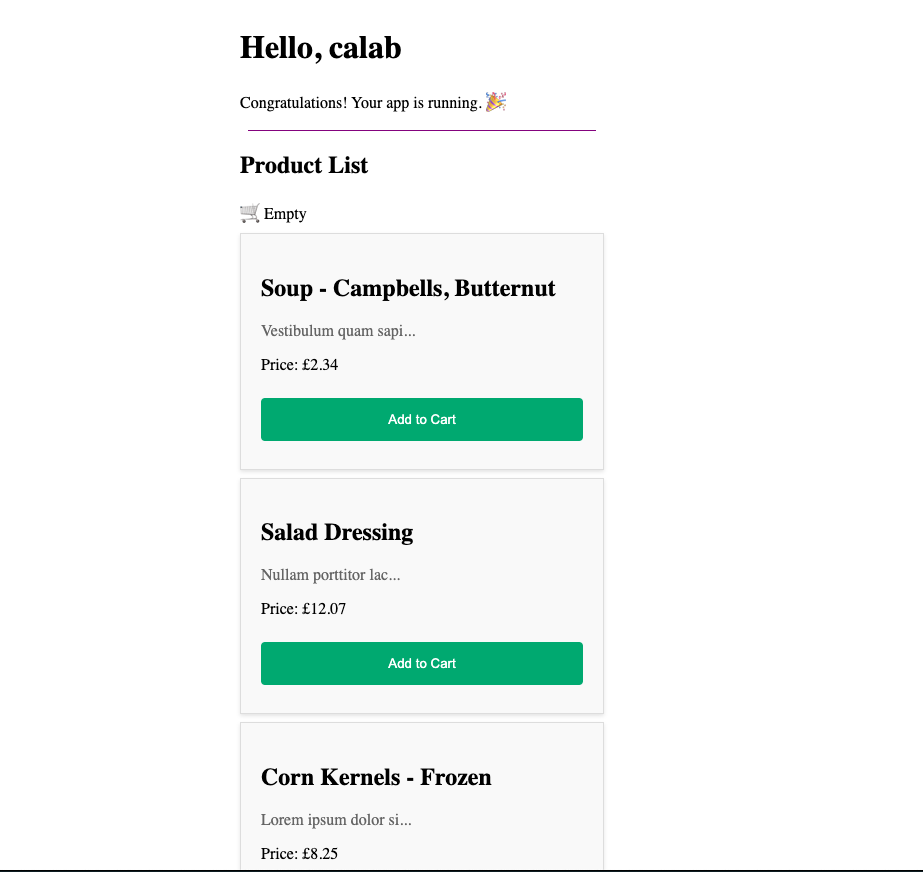
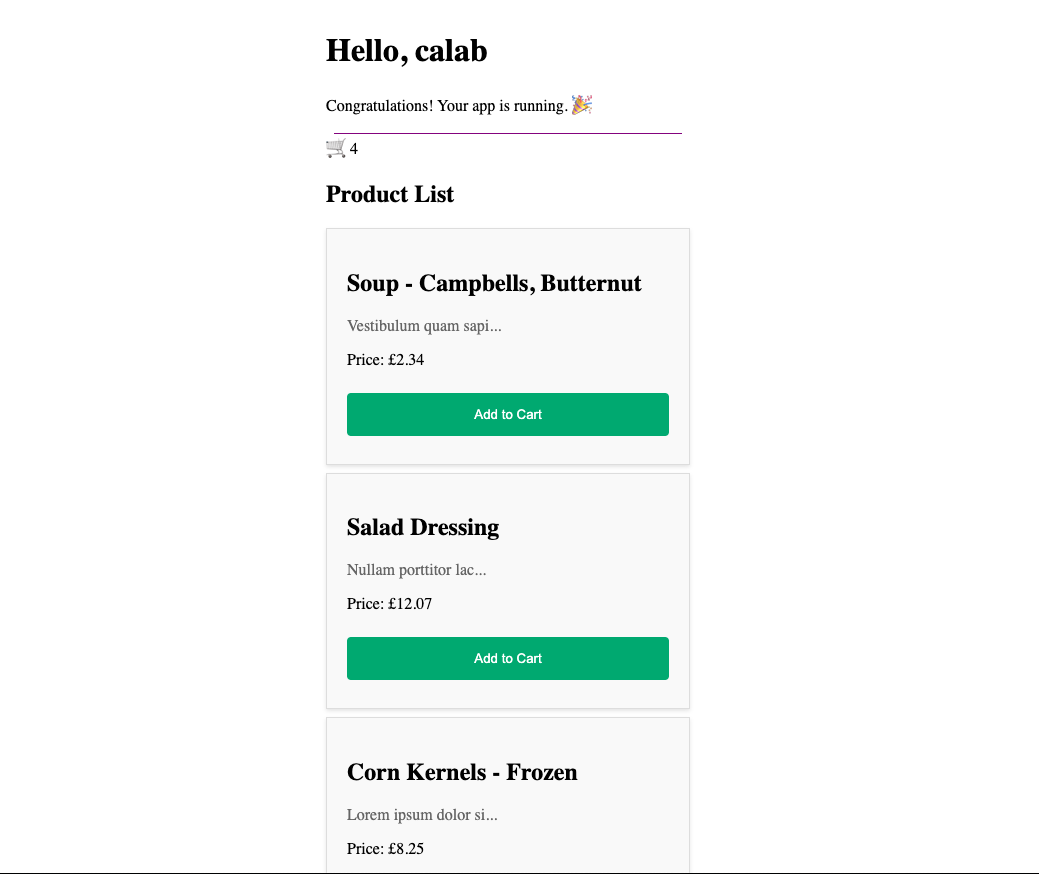
updated lab steps

diff --git a/07-angular-signals/README.md b/07-angular-signals/README.md
@@ -32,187 +32,121 @@
 
     > _You should see similar view to where you left off in previous lab._
 
-## 2. Create A Service
+## 2. Move Cart Separate Component
 
-### 2.1 Create A Service To Return List Of Products
+### 2.1 Create A Cart Component
 
-1. Create a new service called `ProductService` using CLI:
+- Create a new Component called `Cart` using CLI:
 
     ```.sh
-    npx -p @angular/cli ng generate service services/product
+    npx -p @angular/cli ng generate component components/cart
     ```
 
-2. Open `src/app/services/product.service.ts` file and add the following code:
+### 2.2 Implement Signal Inside Cart Component
 
-    ```.js
-    import { Injectable } from '@angular/core';
-    import  DATA from './MOCK_DATA.json';
+- Open `src/app/components/cart/cart.component.ts` file and do the following:
+    - Declate a writable signal and set its default value to empty list `[]`:
 
-    @Injectable({
-        providedIn: 'root'
-    })
-    export class ProductService {
-        constructor() { }
+        ```.js
+        currentCart = signal<Product[]>([]);
+        ```
 
-        getProducts(){
-            return DATA;
+    - Inside `constructor` of `CartComponent`, call an `effect` and log the Signal value:
+
+        ```.js
+        constructor(){
+            effect(() => {
+                console.log(`The current car contains: ${this.currentCart()}`);
+            });
         }
+        ```
+    - Inside `CartComponent`, just below constructor, declare `addToCart` function that takes `Product` as a parameter:
+
+        ```.js
+        public addToCart(product: Product){
+            this.currentCart.update(list => {
+                return [...list, product];
+            })
+        }
+        ```
+
+- Open `src/app/components/cart/cart.component.html` and replace current HTML code with the following:
+
+    ```.html
+    @if (currentCart().length > 0) {
+        🛒 {{currentCart().length}}
+    } @else {
+        🛒 Empty
     }
     ```
-    > _getProducts() method will return the mock Data imported from MOCK_DATA.json._
 
-## 3. Inject Service as Dependency Into Component
+### 2.3 Remove Cart From Product List Component
 
+- Open `src/app/components/product-list/product-list.component.ts` and do the following:
+    - Inside `ProductListComponent`, declare `EventEmitter` called `addToCartEvent` to emit add to cart events:
 
-### 3.1 Update Product Model with id.
-1. Open `src/app/models/product.ts` and update `Product` model with the follwoing:
+        ```.js
+        @Output() addToCartEvent = new EventEmitter<Product>();
+        ```
 
-    ```.js
-    export class Product {
-        constructor(
-            public id: number,
-            public name: string,
-            public description: string,
-            public price: number,
-        ) {}
+    - Delete the following line since it's no longer needed:
+
+        ```.js
+        cart: Product[] = [];
+        ```
+
+    - Update the `addToCart()` method to emit event instead of adding to previously declared list of Products:
+
+        ```.js
+        addToCart(product: Product) {
+            this.addToCartEvent.emit(product);
+        }
+        ```
+        
+- Open `src/app/components/product-list/product-list.component.html` and remove the folling code:
+
+    ```.html
+    @if (cart.length > 0) {
+        🛒 {{cart.length}}
+    } @else {
+        🛒 Empty
     }
     ```
 
-### 3.2 Inject Product Service to Product List Component
+### 2.3 Move Cart To App Component
 
-1. Open `src/app/components/product-list/product-list.component.ts` file and do the following:
-    - Import ProductService:
+- Open `src/app/app.component.ts` file and do the following:
+    - Inside `src/app/app.component.ts` update `imports` to include `CartComponent`:
 
         ```.js
-        import { ProductService } from '../../services/product.service';
+        imports: [RouterOutlet, ProductListComponent, CartComponent],
         ```
 
-    - Add the `ProductService` as a parameter into the  `constructor`.
+    -  Inside `AppConponent`, declare a reference to `CartComponent` using `viewChild` signal API.
 
         ```.js
-         constructor(private productService: ProductService) {}
+        cardComponent = viewChild(CartComponent);
         ```
-    - Replace static list of Products with a service call.
+    - Just below reference to `CartComponent`, declare a new function that would be called when add to Cart button is clicked in a Product. This function should trigger `addToCart` method in a `CartComponent`. 
 
         ```.js
-        products: Product[] = this.productService.getProducts();
-        ```
-
-### 3.3 Instpect Changes
-
-1. Start Angular Development Server if not yet started:
-
-    ```.bash
-    npx -p @angular/cli ng serve  --host 0.0.0.0 
-    ```
-    > _Otherwise refresh the browser tab to see updated view._
-
-2. You should see the following getting rendered in your browser:
-
-    [![result2](res/result2.png)]() 
-
-
-## 4. Injecting Services In Other Services 
-
-### 4.1 Create A New Logger And Implement It's Logic
-
-1. Create a new `Logger` using CLI:
-
-    ```.sh
-    npx -p @angular/cli ng generate service services/logger/logger 
-    ```
-2. Open `src/app/services/logger/logger.service.ts` file and do the following:
-    - Create logging methods just below the `constructor` :
-
-        ```.js
-        log(msg: unknown) { console.log(msg); }
-        error(msg: unknown) { console.error(msg); }
-        warn(msg: unknown) { console.warn(msg); }
-        ```
-
-### 4.2 Inject Logger Service Into Project Service And Log When Projects Are Fetched
-
-1. Open `src/app/services/product.service.ts` file and do the following:
-    - Import Logger service:
-
-        ```.js
-        import { LoggerService } from '../logger/logger.service';
-        ```
-
-    - Add the `LoggerService` as a parameter into the  `constructor`.
-
-        ```.js
-        constructor(private logger: LoggerService) { }
-        ```
-    - Inside `getProducts()` method log that courses are getting fetched.
-
-        ```.js
-        this.logger.log('Fetching Products');
-        ```
-### 4.3 Review Changes
-
-1. Start Angular Development Server if not yet started:
-
-    ```.bash
-    npx -p @angular/cli ng serve  --host 0.0.0.0 
-    ```
-    > _Otherwise refresh the browser tab to see updated view._
-
-2. Inspect console and see whether your application logs with Logger.
-    [![result3](res/result3.png)]() 
-
-## 5. Configuring Dependency Providers
-
-
-### 5.1 Creating Enhanced Logger
-
-1. Create a new `TimedLoggerService` using CLI:
-
-    ```.sh
-    npx -p @angular/cli ng generate service services/logger/timed-logger 
-    ```
-
-2. Open `src/app/services/logger/timed-logger.service.ts` file and do the following:
-    - Extend `LoggerService` with `TimedLoggerService`:
-
-        ```.js
-        export class TimeLoggerService extends LoggerService {...}
-        ```
-    - Override logging methods just below the `constructor`:
-
-        ```.js
-        constructor() {
-            super()
-        }
-        private getUtcDate(){
-            const timeElapsed = Date.now();
-            const today = new Date(timeElapsed);
-            const utcDate = today.toUTCString();
-            return utcDate;
-        }
-
-        override log(msg: unknown) { 
-            const date = this.getUtcDate();
-            console.log(`${date}: ${msg}`); 
-        }
-        override error(msg: unknown) { 
-            const date = this.getUtcDate();
-            console.error(`${date}: ${msg}`); 
-        }
-        override warn(msg: unknown) { 
-            const date = this.getUtcDate();
-            console.warn(`${date}: ${msg}`); 
+        addToCart(product: Product) {
+            this.cardComponent()?.addToCart(product);
         }
         ```
 
-### 5.2 Configure an app-wide provider in the ApplicationConfig of bootstrapApplication, it overrides one configured for root in the @Injectable() metadata.
+- Open `src/app/app.component.html` file and do the following:
+    - Add the following element after the `<div class="divider"...`, to render `CartComponent`.
+ 
+        ```.html
+        <app-cart></app-cart>
+        ```
 
-1. Open `app.config.ts` file and add the following:
-    - Update providers with the following:
+    - Update `app-product-list` element with target event and it's template statement.
 
-    ```.js
-      providers: [provideRouter(routes), provideClientHydration(), {provide: LoggerService, useClass: TimedLoggerService}]
-    ```
+        ```.html
+        <app-product-list (addToCartEvent)="addToCart($event)"></app-product-list>
+        ```
 
 ### 5.3 Review Changes
 
@@ -224,4 +158,4 @@
     > _Otherwise refresh the browser tab to see updated view._
 
 2. Inspect console and see whether your application logs with new Enhanced Timed Logger.
-    [![result4](res/result4.png)]() 
+    [![result2](res/result2.png)]() 
